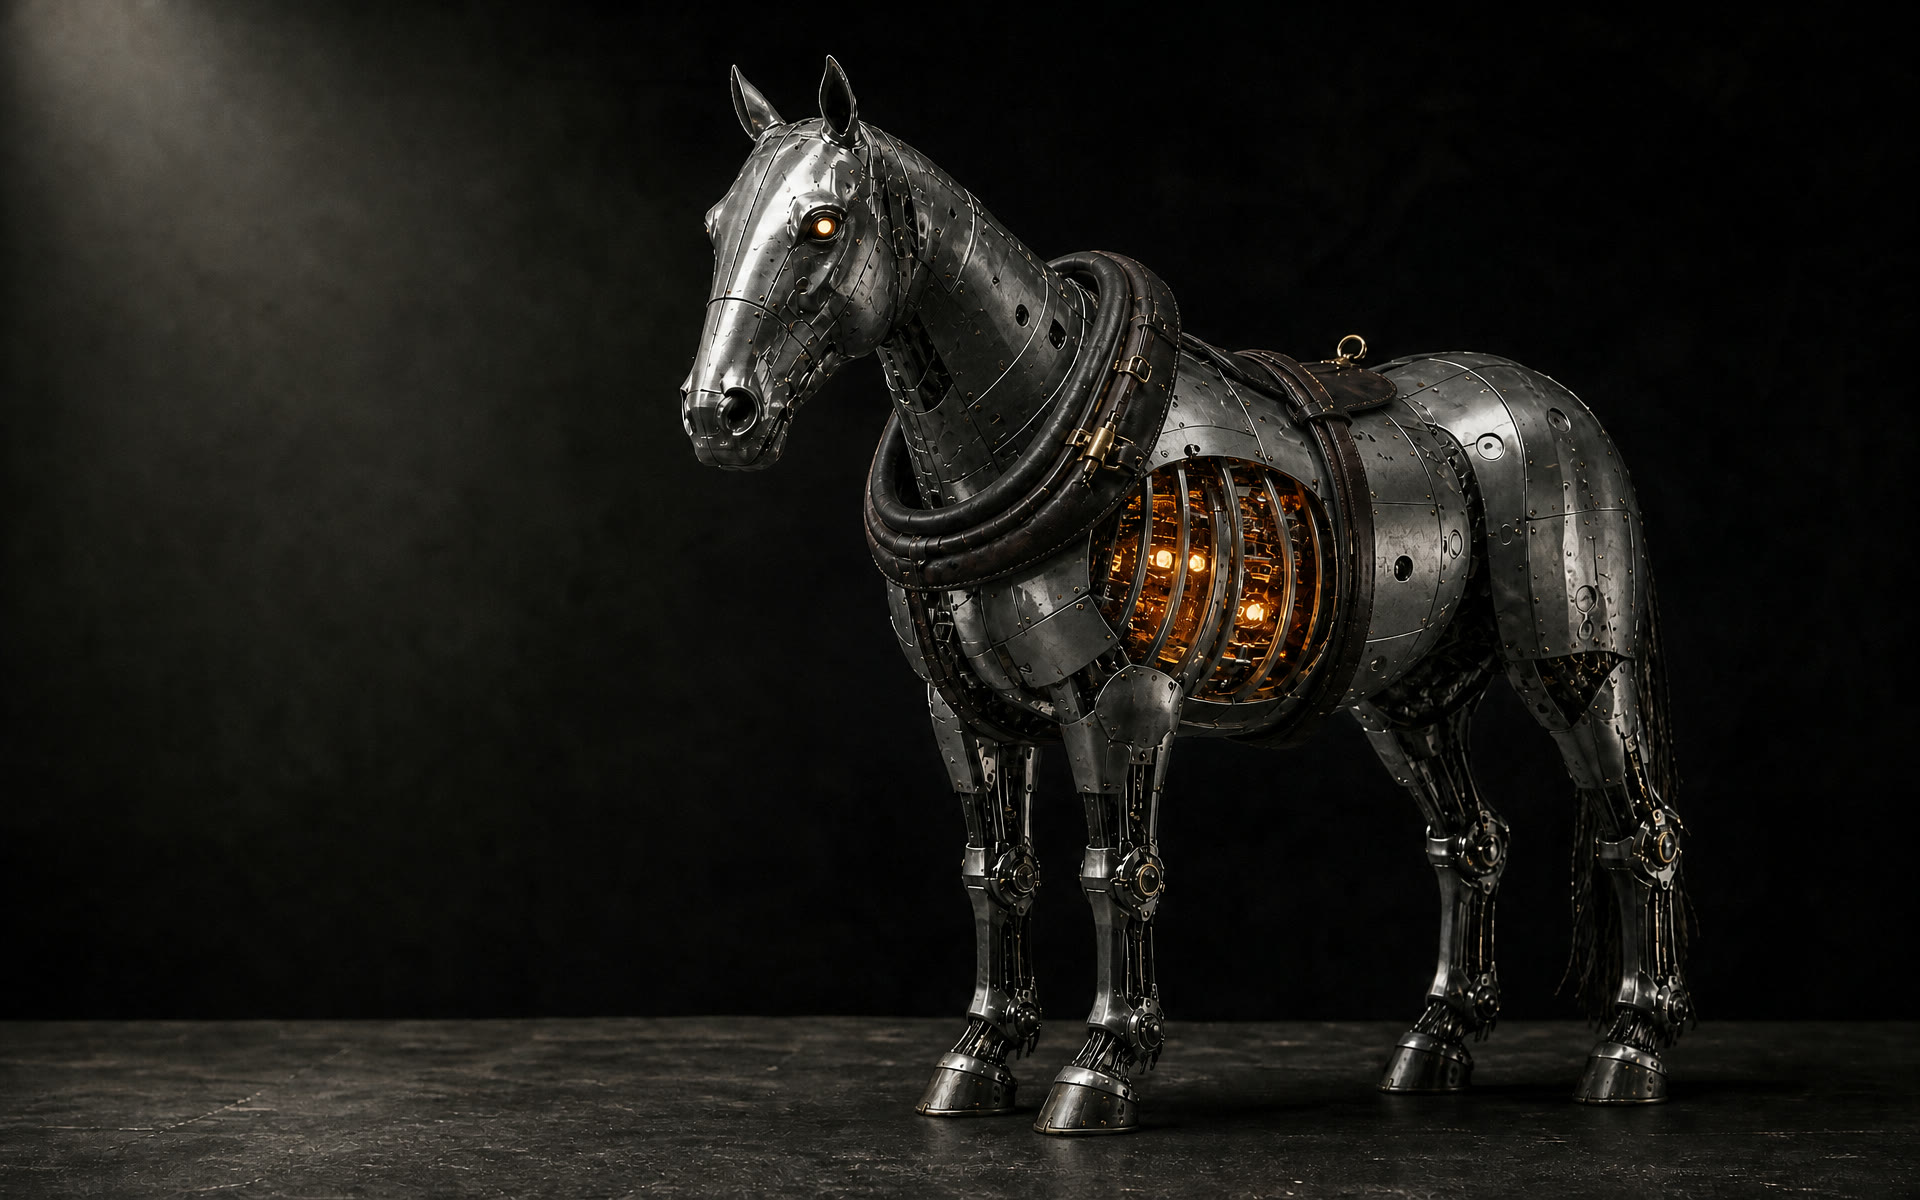
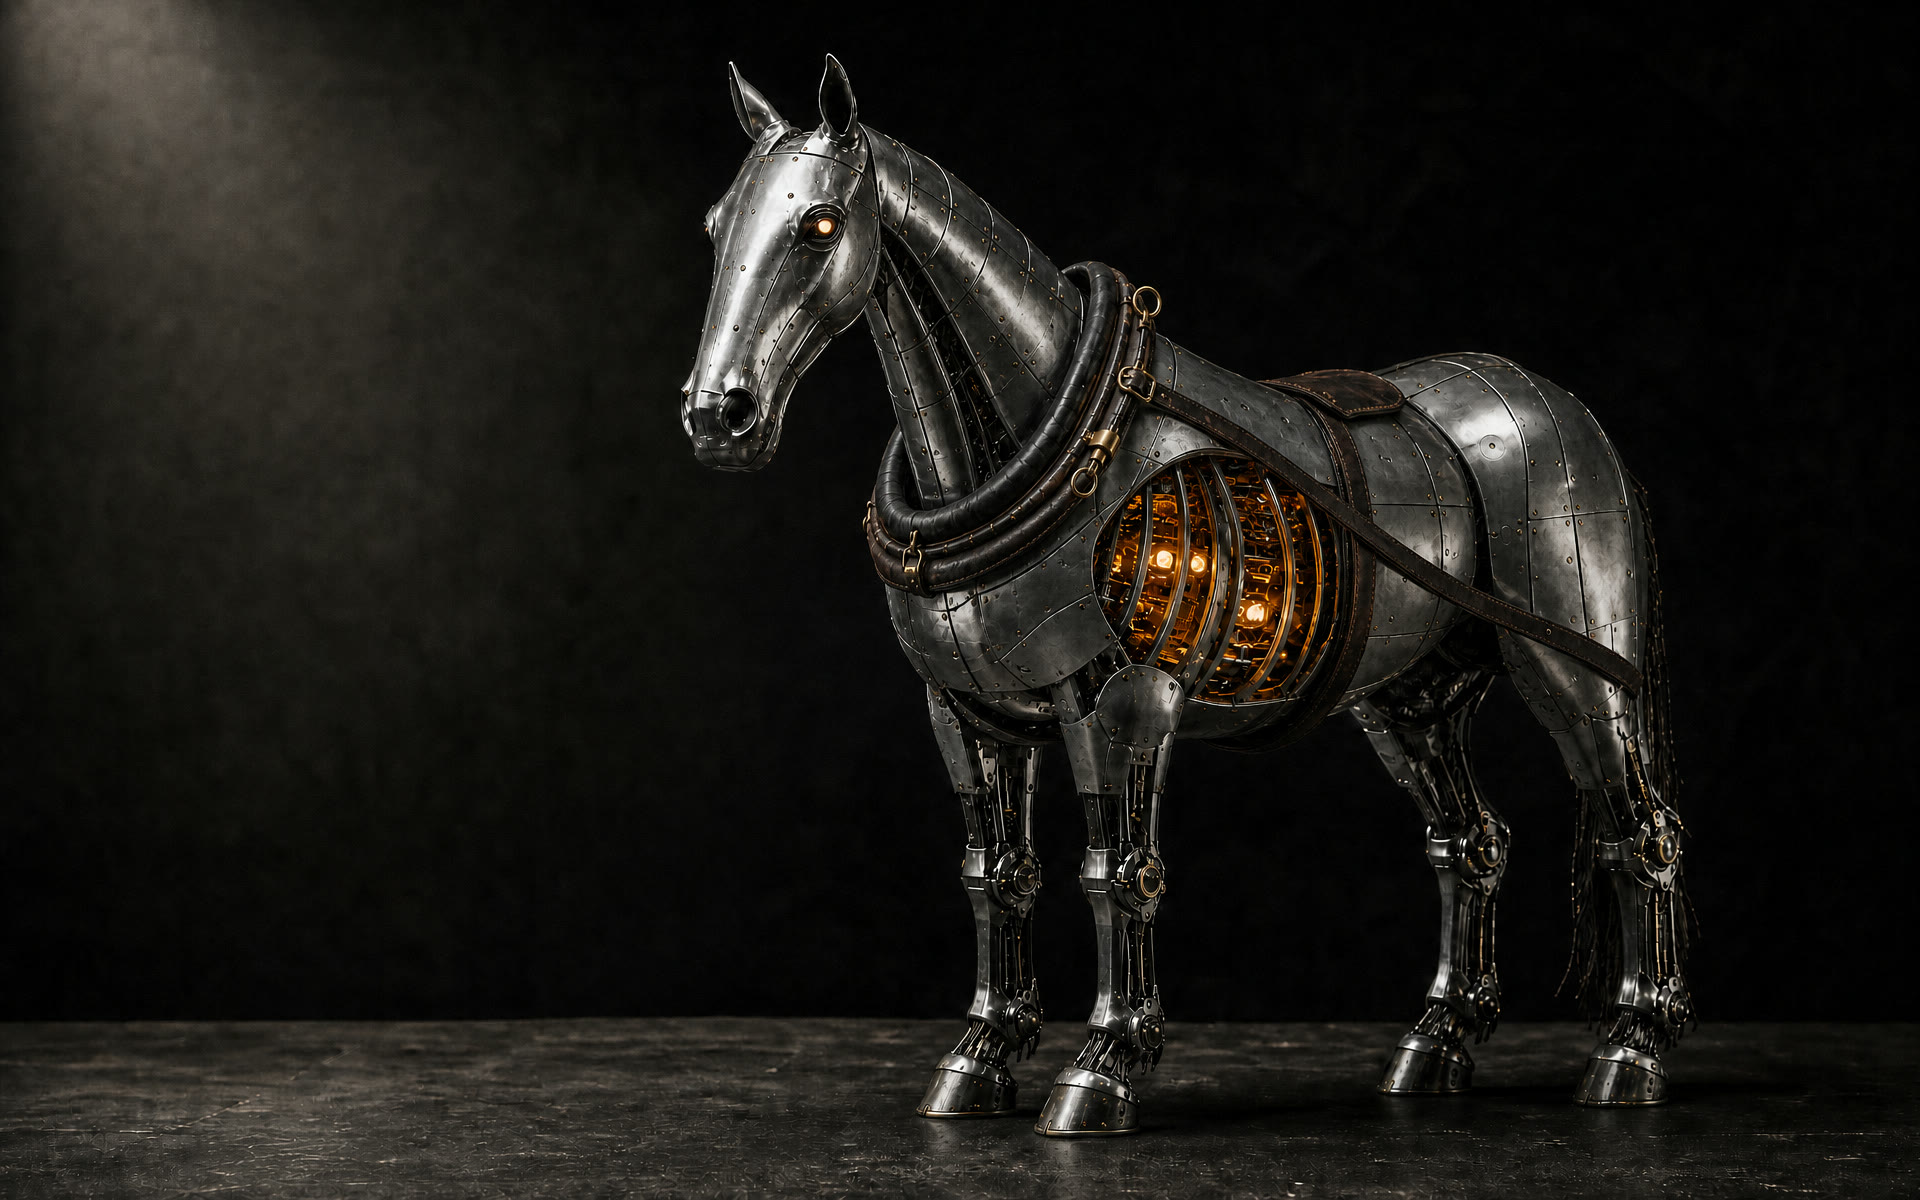
Fixes from review: seamless stage, per-frame eye and heart, label placement, phone layout, high-quality frames, real-speed walkthrough
The shader now works in display space (raw textures, raw graphite), which removes the dark rectangle around the slot: before, the quad was drawn in linear light while the page was not. The photograph's neutral backdrop and bench are keyed to the page's graphite, with wider keys for the tungsten spill left of the muzzle and for the bench, so the still has no edge in the hero or the slot. The heart and eye glow follow per-frame anchors, so nothing floats above the head on the send and strain frames. Labels get a side each and backing plates, and no longer touch the eye, the heart or each other; on phones they are a strip under a whole, uncropped horse. The nine frames are the quality-high set, which drifts less between frames than the medium set. The form resolves within 1.8 s of load, so the first screen shows the horse without scrolling; the buttons are visible at once and the closing line still arrives at the end of the harness sequence.

diff --git a/scene.js b/scene.js
@@ -17,8 +17,15 @@ export const FRAMES = [
 ];
 export const REST = 6, HEAD_UP = 7, STRAIN = 8;
 export const IMG_W = 1920, IMG_H = 1200;
-export const CORE_UV = [0.615, 0.49];
-export const EYE_UV = [0.43, 0.19];
+// where the heart and the eye sit in each frame (image uv, y down); the head moves in 7 and 8
+const REST_CORE = [0.623, 0.48], REST_EYE = [0.427, 0.183];
+export const ANCHORS = {
+  0: { core: REST_CORE, eye: REST_EYE }, 1: { core: REST_CORE, eye: REST_EYE }, 2: { core: REST_CORE, eye: REST_EYE },
+  3: { core: REST_CORE, eye: REST_EYE }, 4: { core: REST_CORE, eye: REST_EYE }, 5: { core: REST_CORE, eye: REST_EYE },
+  6: { core: REST_CORE, eye: REST_EYE },
+  7: { core: [0.625, 0.48], eye: [0.443, 0.123] },
+  8: { core: [0.604, 0.49], eye: [0.339, 0.279] },
+};
 export const FOCUS_UV = [0.6, 0.47];   // what the cover-crop keeps when the frame is narrow
 
 const VERT = `varying vec2 vUv; void main(){ vUv = uv; gl_Position = projectionMatrix * modelViewMatrix * vec4(position, 1.0); }`;
@@ -40,9 +47,23 @@ const FRAG = `
     vec3 a = texture2D(tA, iuv).rgb;
     vec3 b = texture2D(tB, iuvB).rgb;
     vec3 img = mix(a, b, uMix);
-    // outside the image (portrait band mode) there is only the bench
+    // outside the image there is only the bench; the left edge fades over 9% so the floor has no seam
+    float inl = smoothstep(0.0, 0.09, iuv.x);
     vec2 inb = smoothstep(0.0, 0.025, iuv) * smoothstep(0.0, 0.025, 1.0 - iuv);
-    img = mix(uBg, img, inb.x * inb.y);
+    img = mix(uBg, img, inl * inb.y * smoothstep(0.0, 0.025, 1.0 - iuv.x));
+    // the photograph's own backdrop and floor are a neutral dark grey; they become the page's
+    // graphite so the still has no edge. Leather is warm and metal is bright, so both survive.
+    float lum0 = dot(img, vec3(0.3, 0.59, 0.11));
+    float sat0 = max(img.r, max(img.g, img.b)) - min(img.r, min(img.g, img.b));
+    float bgness = (1.0 - smoothstep(0.11, 0.34, lum0)) * (1.0 - smoothstep(0.012, 0.045, sat0));
+    // the key's spill (top left) and the bench (bottom) are neutral but brighter: pull them too
+    // the spill is tungsten-tinted, so left of the muzzle it is keyed on brightness alone
+    float spill = smoothstep(0.34, 0.08, iuv.x) * smoothstep(0.33, 0.68, iuv.y);
+    float bench = smoothstep(0.2, 0.0, iuv.y);
+    float wide = (1.0 - smoothstep(0.03, 0.09, sat0)) * (1.0 - smoothstep(0.22, 0.55, lum0)) * bench;
+    wide = max(wide, spill * (1.0 - smoothstep(0.45, 0.9, lum0)));
+    bgness = max(bgness, wide);
+    img = mix(img, uBg, bgness);
     // the amber core and eye are keyed by warmth, so they stay lit while the body is still dark
     float lum = dot(img, vec3(0.3, 0.59, 0.11));
     float warmth = clamp((img.r - img.b) * 2.2, 0.0, 1.0);
@@ -98,7 +119,7 @@ export function createStage(canvas, options = {}) {
     if (textures.has(i)) return textures.get(i);
     const p = new Promise((resolve) => {
       loader.load(`assets/horse/f${i}-${size}.jpg`, (t) => {
-        t.colorSpace = THREE.SRGBColorSpace;
+        t.colorSpace = THREE.NoColorSpace;   // sampled raw; the shader writes display values directly
         t.minFilter = THREE.LinearFilter;
         t.generateMipmaps = false;
         t.anisotropy = Math.min(8, renderer.capabilities.getMaxAnisotropy());
@@ -114,10 +135,11 @@ export function createStage(canvas, options = {}) {
   const uniforms = {
     tA: { value: blank }, tB: { value: blank }, uMix: { value: 0 },
     uScale: { value: new THREE.Vector2(1, 1) }, uOffset: { value: new THREE.Vector2(0, 0) },
-    uReveal: { value: reduced ? 1 : 0 }, uCore: { value: new THREE.Vector2(CORE_UV[0], 1 - CORE_UV[1]) },
-    uEye: { value: new THREE.Vector2(EYE_UV[0], 1 - EYE_UV[1]) }, uCoreLevel: { value: 0.55 }, uEyeLevel: { value: 1.0 },
+    uReveal: { value: reduced ? 1 : 0 }, uCore: { value: new THREE.Vector2(REST_CORE[0], 1 - REST_CORE[1]) },
+    uEye: { value: new THREE.Vector2(REST_EYE[0], 1 - REST_EYE[1]) }, uCoreLevel: { value: 0.55 }, uEyeLevel: { value: 1.0 },
     uDrop: { value: 0 }, uTime: { value: 0 }, uGrain: { value: options.grain ?? 0.012 }, uFeather: { value: 0.0 },
-    uBg: { value: new THREE.Color(0x141516) }, uLift: { value: 0.06 }, uAspectFix: { value: IMG_W / IMG_H },
+    // raw display-space graphite, the same value the page's CSS uses, so the quad has no edge
+    uBg: { value: new THREE.Vector3(20 / 255, 21 / 255, 22 / 255) }, uLift: { value: 0.06 }, uAspectFix: { value: IMG_W / IMG_H },
   };
   // DoubleSide: the camera's y is flipped to CSS space and the quad's y scale is negative, which
   // together invert the winding once more than three's determinant check expects.
@@ -172,8 +194,8 @@ export function createStage(canvas, options = {}) {
     const w = r.w * (1 + grow), h = r.h * (1 + grow);
     quad.position.set(r.cx, r.cy, 0);
     quad.scale.set(w, -h, 1);
-    uniforms.uFeather.value = t > 0 ? 0.3 : 0.0;
-    uniforms.uLift.value = 0.06 + 0.07 * t;
+    uniforms.uFeather.value = t > 0 ? 0.3 : 0.06;
+    uniforms.uLift.value = 0.0;
     // Landscape quads: cover the quad with the image, keeping FOCUS_UV in view.
     // Portrait quads (phones): show the horse as a band in the lower part, above which the copy sits.
     const qa = w / h, ia = IMG_W / IMG_H;
@@ -189,11 +211,11 @@ export function createStage(canvas, options = {}) {
       if (hb >= 1) { sy = 1 / hb; oy = THREE.MathUtils.clamp(fy - sy * 0.5, 0, 1 - sy); }
       else { sy = 1 / hb; oy = 0; }            // shorter than the quad: sit on the bench, dark above
     } else {
-      const zoom = 1.18;                       // how much of the image width the band shows: 1/zoom
+      const zoom = 1.04;                       // the whole horse, reins included
       sx = 1 / zoom;
-      ox = THREE.MathUtils.clamp(0.58 - sx * 0.5, 0, 1 - sx);
+      ox = THREE.MathUtils.clamp(0.6 - sx * 0.5, 0, 1 - sx);
       const hb = Math.min(1, (qa / ia) * zoom); // band height as a fraction of the quad
-      const v0 = t > 0 ? (1 - hb) * 0.5 : -0.03; // low in the hero (hooves just past the edge), centred in the slot
+      const v0 = t > 0 ? (1 - hb) * 0.5 : 0.15; // above the label strip in the hero, centred in the slot
       sy = 1 / hb;
       oy = -v0 / hb;
     }
@@ -227,6 +249,11 @@ export function createStage(canvas, options = {}) {
     uniforms.tA.value = ta || blank;
     uniforms.tB.value = tb || ta || blank;
     uniforms.uMix.value = tb === ta ? 0 : state.mix;
+    // the heart and eye follow the frame that is actually showing
+    const aA = ANCHORS[state.frame] || ANCHORS[REST], aB = ANCHORS[state.frameB] || aA;
+    const m = tb === ta ? 0 : state.mix;
+    uniforms.uCore.value.set(aA.core[0] + (aB.core[0] - aA.core[0]) * m, 1 - (aA.core[1] + (aB.core[1] - aA.core[1]) * m));
+    uniforms.uEye.value.set(aA.eye[0] + (aB.eye[0] - aA.eye[0]) * m, 1 - (aA.eye[1] + (aB.eye[1] - aA.eye[1]) * m));
     uniforms.uReveal.value = state.reveal;
     uniforms.uCoreLevel.value = state.core;
     uniforms.uEyeLevel.value = state.eye;
@@ -245,8 +272,21 @@ export function createStage(canvas, options = {}) {
     if (document.hidden) running = false; else if (!running) { running = true; timer.reset(); render(); }
   });
 
-  // first frames first, then the rest in the order the sequence needs them
-  want(0).then(() => want(REST)).then(() => { [1, 2, 3, 4, 5, HEAD_UP, STRAIN].forEach((i) => want(i)); });
+  // first frames first, then the rest in the order the sequence needs them; the form resolves on
+  // its own as soon as the first frame is in, so the first screen is never empty
+  want(0).then(() => {
+    if (!reduced) tweenReveal();
+    return want(REST);
+  }).then(() => { [1, 2, 3, 4, 5, HEAD_UP, STRAIN].forEach((i) => want(i)); });
+  function tweenReveal() {
+    const t0 = performance.now();
+    const step = (now) => {
+      const u = Math.min(1, (now - t0) / 1800);
+      state.reveal = Math.max(state.reveal, u * u * (3 - 2 * u));
+      if (u < 1) requestAnimationFrame(step);
+    };
+    requestAnimationFrame(step);
+  }
 
   // ---- tiny tween helper ----
   function tween(obj, key, to, ms, easing = (t) => t) {
@@ -284,11 +324,10 @@ export function createStage(canvas, options = {}) {
     setSequence(p) {
       state.seq = p;
       if (busy) return;
-      const revealEnd = 0.2;
-      state.reveal = reduced ? 1 : THREE.MathUtils.clamp(p / revealEnd, 0, 1);
-      // frames 0..6 across [0.2, 0.92]
+      if (reduced) state.reveal = 1;
+      // frames 0..6 across [0, 0.9]; the closing beat uses the last tenth
       const steps = REST;          // 6 transitions
-      const q = THREE.MathUtils.clamp((p - revealEnd) / (0.92 - revealEnd), 0, 1) * steps;
+      const q = THREE.MathUtils.clamp(p / 0.9, 0, 1) * steps;
       const i = Math.min(steps - 1, Math.floor(q));
       const f = q - i;             // position inside this transition
       // each piece lands in the first 55% of its slot, then holds
@@ -296,7 +335,7 @@ export function createStage(canvas, options = {}) {
       const eased = 1 - Math.pow(1 - k, 3);
       if (q >= steps) { state.frame = REST; state.frameB = REST; state.mix = 0; state.drop = 0; }
       else { state.frame = i; state.frameB = i + 1; state.mix = eased; state.drop = (1 - eased) * 0.012; }
-      state.core = 0.4 + 0.25 * state.reveal;
+      state.core = 0.4 + 0.25 * Math.min(1, state.reveal + p);
       want(Math.min(REST, i + 1));
     },
     // the demo states

diff --git a/index.html b/index.html
@@ -53,24 +53,24 @@
     <!-- block: availability. Remove the span for a version without hours. -->
     <p class="eyebrow reveal">AI agents · Fixed-price milestones<span class="eyebrow-more" data-block="availability"> · Evenings and weekends, Mountain Time</span></p>
     <h1 class="h1" id="h1">I build AI agents that do real work, and can't send a thing until you say so.</h1>
+    <div class="cta-row reveal">
+      <a class="btn btn-brass" data-profile href="#hire">Work with me</a>
+      <a class="btn btn-ghost" href="#approval">Try the demos</a>
+    </div>
     <div class="hero-close" id="hero-close">
       <p class="close-line">It doesn't move until you do.</p>
       <p class="lede">An agent reads your messages, keeps your records current and drafts the reply. The draft waits. The reins are on your side of the bench.</p>
-      <div class="cta-row">
-        <a class="btn btn-brass" data-profile href="#hire">Work with me</a>
-        <a class="btn btn-ghost" href="#approval">Try the demos</a>
-      </div>
     </div>
   </div>
   <div class="hero-object" aria-hidden="true"></div>
   <ul class="labels" id="labels" aria-label="The parts of the harness">
-    <li class="side-left" data-u="0.548" data-v="0.36" data-at="0.27"><span class="lbl-part">collar</span><span class="lbl-name">skills</span></li>
-    <li class="side-up" data-u="0.69" data-v="0.31" data-at="0.385"><span class="lbl-part">back pad</span><span class="lbl-name">subagents</span></li>
-    <li class="side-down" data-u="0.652" data-v="0.605" data-at="0.43"><span class="lbl-part">girth</span><span class="lbl-name">log</span></li>
-    <li class="side-up" data-u="0.765" data-v="0.44" data-at="0.505"><span class="lbl-part">traces</span><span class="lbl-name">tools · MCP</span></li>
-    <li class="side-right" data-u="0.86" data-v="0.455" data-at="0.625"><span class="lbl-part">breeching</span><span class="lbl-name">hooks</span></li>
-    <li class="side-up" data-u="0.39" data-v="0.2" data-at="0.745"><span class="lbl-part">bridle</span><span class="lbl-name">instructions</span></li>
-    <li class="side-right" data-u="0.345" data-v="0.63" data-at="0.865"><span class="lbl-part">reins</span><span class="lbl-name">approval</span></li>
+    <li class="side-left" data-u="0.548" data-v="0.36" data-at="0.085"><span class="lbl-box"><span class="lbl-part">collar</span><span class="lbl-name">skills</span></span></li>
+    <li class="side-up" data-u="0.69" data-v="0.31" data-at="0.235"><span class="lbl-box"><span class="lbl-part">back pad</span><span class="lbl-name">subagents</span></span></li>
+    <li class="side-down" data-u="0.652" data-v="0.605" data-at="0.275"><span class="lbl-box"><span class="lbl-part">girth</span><span class="lbl-name">log</span></span></li>
+    <li class="side-up" data-u="0.765" data-v="0.44" data-at="0.385"><span class="lbl-box"><span class="lbl-part">traces</span><span class="lbl-name">tools · MCP</span></span></li>
+    <li class="side-down" data-u="0.855" data-v="0.49" data-at="0.535"><span class="lbl-box"><span class="lbl-part">breeching</span><span class="lbl-name">hooks</span></span></li>
+    <li class="side-left" data-u="0.368" data-v="0.265" data-at="0.685"><span class="lbl-box"><span class="lbl-part">bridle</span><span class="lbl-name">instructions</span></span></li>
+    <li class="side-right" data-u="0.345" data-v="0.63" data-at="0.835"><span class="lbl-box"><span class="lbl-part">reins</span><span class="lbl-name">approval</span></span></li>
   </ul>
   <p class="scroll-cue" aria-hidden="true"><span class="scroll-line"></span>Scroll</p>
 </section>

diff --git a/style.css b/style.css
@@ -134,9 +134,10 @@ html:not(.js-motion) .hero-close > * { opacity: 1; }
   white-space: nowrap; transform: translate(-100%, -50%); padding-right: 32px; text-align: right;
 }
 .labels li.is-on { visibility: visible; }
-.labels li > span { display: block; }
+.labels li .lbl-box { display: inline-block; padding: .35em .6em .4em; border-radius: 4px; background: rgba(20, 21, 22, .78); }
+.labels li .lbl-box > span { display: block; }
 .labels li .lbl-part { font: 400 .54rem/1.3 var(--mono); letter-spacing: .16em; text-transform: uppercase; color: var(--ash); }
-.labels li .lbl-name { font: 500 .76rem/1.25 var(--mono); letter-spacing: .04em; color: var(--bone); background: rgba(20, 21, 22, .72); padding: .18em .45em; border-radius: 3px; display: inline-block; }
+.labels li .lbl-name { font: 500 .76rem/1.25 var(--mono); letter-spacing: .04em; color: var(--bone); }
 .labels li::before { content: ""; position: absolute; width: 6px; height: 6px; border-radius: 50%; background: var(--amber); box-shadow: 0 0 10px rgba(255, 177, 102, .85); }
 .labels li::after { content: ""; position: absolute; background: var(--bone-60); }
 /* left: text hangs left of the dot */
@@ -280,17 +281,16 @@ html.lenis, html.lenis body { height: auto; }
   .hero-close .lede { display: none; }
   .hero-close .cta-row { margin-top: 1.1rem; }
   .scroll-cue { display: none; }
-  .labels li .lbl-name { font-size: .68rem; }
-  .labels li .lbl-part { display: none; }
-  /* on a phone every label sits beside its dot, never above or below it */
-  .labels li.side-up, .labels li.side-down { transform: translate(0, -50%); padding: 0 0 0 24px; text-align: left; }
-  .labels li.side-up::before, .labels li.side-down::before { left: 0; top: 50%; bottom: auto; transform: translate(-50%, -50%); }
-  .labels li.side-up::after, .labels li.side-down::after { left: 7px; top: 50%; bottom: auto; width: 12px; height: 1px; }
-  .labels li.side-left { padding-right: 24px; }
-  .labels li.side-left::after { width: 12px; }
-  .labels li.side-right { padding-left: 24px; }
-  .labels li.side-right::after { width: 12px; }
-  .poster { inset: auto 0 0 0; width: 100%; height: 46%; object-position: 57% 50%; }
+  /* on a phone the labels are a strip under the horse: each piece appears as it goes on */
+  .labels { position: absolute; left: var(--gutter); right: var(--gutter); top: auto; bottom: 3vh; display: flex; flex-wrap: wrap; gap: 6px 8px; align-content: flex-end; }
+  .labels li, .labels li.side-up, .labels li.side-down, .labels li.side-left, .labels li.side-right { position: static; transform: none; padding: 0; text-align: left; display: none; }
+  .labels li.is-on { display: block; }
+  .labels li::before, .labels li::after { display: none; }
+  .labels li .lbl-box { display: flex; align-items: baseline; gap: 6px; padding: .3em .55em; background: rgba(20, 21, 22, .72); border: 1px solid var(--hair-2); }
+  .labels li .lbl-part { font-size: .5rem; }
+  .labels li .lbl-name { font-size: .64rem; }
+  .labels li .lbl-part::before { content: ""; display: inline-block; width: 5px; height: 5px; border-radius: 50%; background: var(--amber); margin-right: 6px; vertical-align: middle; }
+  .poster { inset: auto 0 15% 0; width: 100%; height: 30%; object-fit: contain; object-position: 50% 100%; }
   .sorter-grid, .piece, .hire-grid { grid-template-columns: minmax(0, 1fr); }
   .gate { display: grid; row-gap: 18px; padding-top: clamp(72px, 10vh, 120px); }
   .gate-grid, .record { display: contents; }

diff --git a/app.js b/app.js
@@ -88,10 +88,12 @@ function setSequence(p) {
   for (const li of labels) showLabel(li, p >= parseFloat(li.dataset.at));
   showClose(p >= 0.9);
 }
-// labels follow their anchors on the horse
+// labels follow their anchors on the horse (on phones they are a static strip under it)
+const phoneLabels = matchMedia('(max-width: 900px)');
 function placeLabels() {
   requestAnimationFrame(placeLabels);
   if (!stage) return;
+  if (phoneLabels.matches) { for (const li of labels) { li.style.left = ''; li.style.top = ''; li.style.visibility = ''; } return; }
   for (const li of labels) {
     const pt = stage.project(parseFloat(li.dataset.u), parseFloat(li.dataset.v));
     li.style.left = `${pt.x.toFixed(1)}px`;
